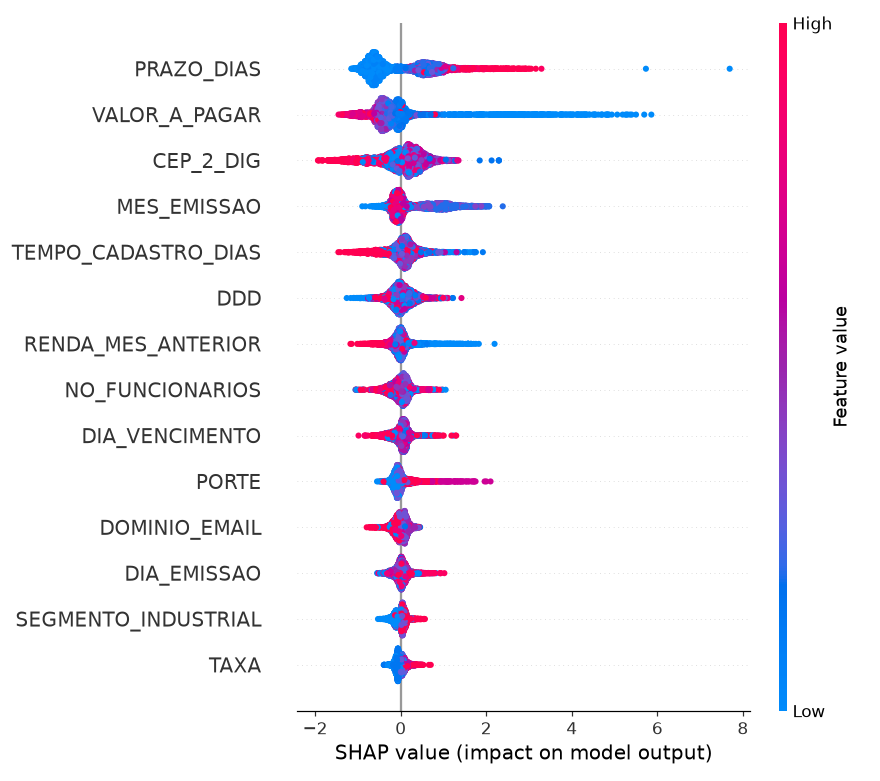
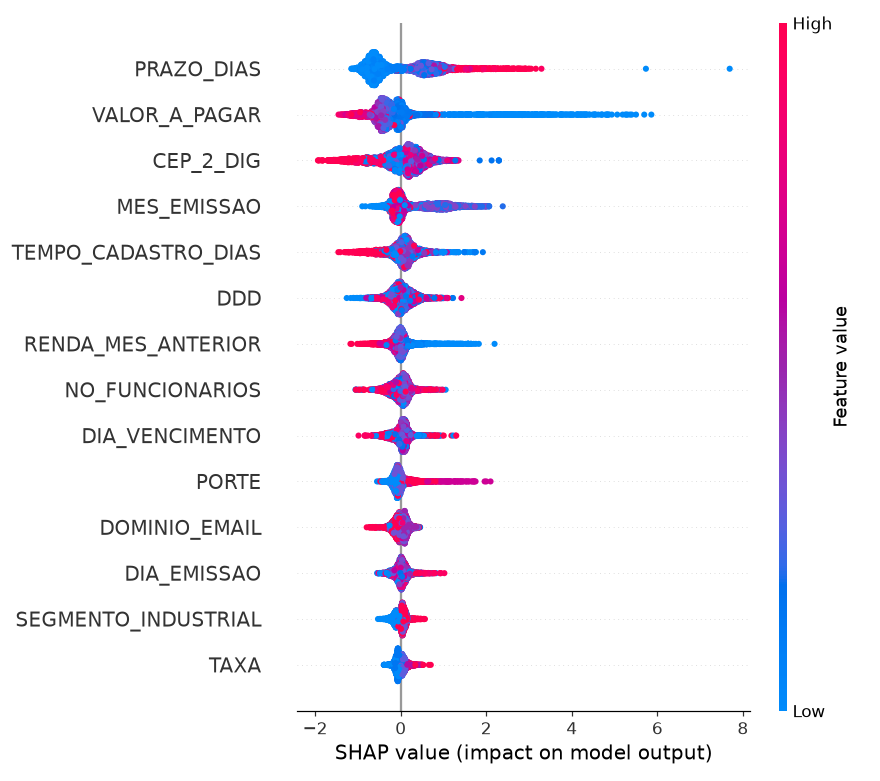
Empacotar Pipeline com joblib, API /score e testes

Changed region(s): [[0.3989, 0.0615, 0.5523, 0.8297], [0.4602, 0.8297, 0.4909, 0.8604]]

diff --git a/src/treino.py b/src/treino.py
@@ -1,0 +1,76 @@
+"""Treino do modelo final e serializacao com joblib.
+
+Uso:
+    python -m src.treino                      # grava models/pipeline_modelo.joblib
+    python -m src.treino --submissao saida.csv # tambem gera previsoes da base de teste
+"""
+import argparse
+import json
+import platform
+from pathlib import Path
+
+import joblib
+import lightgbm
+import pandas as pd
+import sklearn
+
+from src.config import COL_ALVO, COL_ID, COL_SAFRA, FEATURES, MODELS_DIR
+from src.data import carregar_bases, montar_desenvolvimento, montar_teste
+from src.features import construir_pipeline, preparar_entrada
+
+NOME_MODELO = "pipeline_modelo.joblib"
+NOME_METADADOS = "pipeline_modelo.json"
+
+
+def treinar(df):
+    """Ajusta o Pipeline completo (imputacao, codificacao, LightGBM) em todo o desenvolvimento."""
+    X = preparar_entrada(df, FEATURES)
+    return construir_pipeline(FEATURES).fit(X, df[COL_ALVO])
+
+
+def salvar(pipeline, pasta=None, n_linhas=None):
+    pasta = Path(pasta) if pasta else MODELS_DIR
+    pasta.mkdir(parents=True, exist_ok=True)
+    caminho = pasta / NOME_MODELO
+    joblib.dump(pipeline, caminho)
+    metadados = {
+        "features": FEATURES,
+        "n_linhas_treino": n_linhas,
+        "versoes": {
+            "python": platform.python_version(),
+            "scikit_learn": sklearn.__version__,
+            "lightgbm": lightgbm.__version__,
+            "pandas": pd.__version__,
+            "joblib": joblib.__version__,
+        },
+    }
+    (pasta / NOME_METADADOS).write_text(json.dumps(metadados, indent=2), encoding="utf-8")
+    return caminho
+
+
+def carregar(caminho=None):
+    return joblib.load(Path(caminho) if caminho else MODELS_DIR / NOME_MODELO)
+
+
+def prever(pipeline, df):
+    return pipeline.predict_proba(preparar_entrada(df, FEATURES))[:, 1]
+
+
+def main():
+    ap = argparse.ArgumentParser()
+    ap.add_argument("--submissao", help="caminho do CSV de previsoes da base de teste")
+    args = ap.parse_args()
+    bases = carregar_bases()
+    dev = montar_desenvolvimento(bases)
+    pipeline = treinar(dev)
+    print("Modelo salvo em", salvar(pipeline, n_linhas=len(dev)))
+    if args.submissao:
+        teste = montar_teste(bases)
+        saida = teste[[COL_ID, COL_SAFRA]].copy()
+        saida["PROBABILIDADE_INADIMPLENCIA"] = prever(pipeline, teste)
+        saida.to_csv(args.submissao, index=False)
+        print("Previsoes gravadas em", args.submissao, f"({len(saida)} linhas)")
+
+
+if __name__ == "__main__":
+    main()

diff --git a/tests/test_treino_e_api.py b/tests/test_treino_e_api.py
@@ -1,0 +1,60 @@
+import numpy as np
+import pytest
+from fastapi.testclient import TestClient
+
+from src.api import criar_app
+from src.config import FEATURES
+from src.treino import NOME_MODELO, carregar, prever, salvar, treinar
+
+
+@pytest.fixture(scope="module")
+def pipeline(desenvolvimento):
+    return treinar(desenvolvimento)
+
+
+@pytest.fixture(scope="module")
+def caminho_modelo(pipeline, tmp_path_factory):
+    return salvar(pipeline, tmp_path_factory.mktemp("modelo"), n_linhas=1)
+
+
+def test_serializacao_joblib_preserva_previsoes(pipeline, caminho_modelo, desenvolvimento):
+    recarregado = carregar(caminho_modelo)
+    amostra = desenvolvimento.head(50)
+    assert caminho_modelo.name == NOME_MODELO
+    np.testing.assert_allclose(prever(pipeline, amostra), prever(recarregado, amostra))
+
+
+def test_pipeline_expoe_a_lista_unica_de_features(pipeline):
+    assert sorted(pipeline.named_steps["prep"].get_feature_names_out()) == sorted(FEATURES)
+
+
+def test_api_saude(caminho_modelo):
+    cliente = TestClient(criar_app(caminho_modelo))
+    r = cliente.get("/saude")
+    assert r.status_code == 200
+    assert r.json()["features"] == FEATURES
+
+
+def test_api_score_retorna_probabilidades_validas(caminho_modelo):
+    cliente = TestClient(criar_app(caminho_modelo))
+    corpo = {"registros": [
+        {"DATA_EMISSAO_DOCUMENTO": "2019-05-10", "DATA_VENCIMENTO": "2019-06-10",
+         "VALOR_A_PAGAR": 12000.0, "TAXA": 6.99, "PORTE": "MEDIO", "DDD": 31},
+        {"DATA_EMISSAO_DOCUMENTO": "2019-05-12", "DATA_VENCIMENTO": "2019-06-20"},
+    ]}
+    r = cliente.post("/score", json=corpo)
+    assert r.status_code == 200
+    prob = r.json()["probabilidades"]
+    assert len(prob) == 2 and all(0.0 <= p <= 1.0 for p in prob)
+
+
+def test_api_rejeita_corpo_invalido(caminho_modelo):
+    cliente = TestClient(criar_app(caminho_modelo))
+    assert cliente.post("/score", json={"registros": []}).status_code == 422
+    assert cliente.post("/score", json={"registros": [{"TAXA": 1}]}).status_code == 422
+
+
+def test_api_sem_modelo_retorna_503(tmp_path):
+    cliente = TestClient(criar_app(tmp_path / "inexistente.joblib"))
+    corpo = {"registros": [{"DATA_EMISSAO_DOCUMENTO": "2019-05-10", "DATA_VENCIMENTO": "2019-06-10"}]}
+    assert cliente.post("/score", json=corpo).status_code == 503

diff --git a/src/api.py b/src/api.py
@@ -1,0 +1,69 @@
+"""API de escore. Uso: MODELO_PATH=models/pipeline_modelo.joblib uvicorn src.api:app"""
+import os
+from typing import List, Optional
+
+import pandas as pd
+from fastapi import FastAPI, HTTPException
+from pydantic import BaseModel, Field
+
+from src.config import FEATURES, MODELS_DIR
+from src.data import derivar_variaveis
+from src.treino import NOME_MODELO, carregar, prever
+
+
+class Registro(BaseModel):
+    """Um documento a ser pontuado. Campos cadastrais ausentes sao tratados como nulos."""
+
+    DATA_EMISSAO_DOCUMENTO: str = Field(..., examples=["2021-07-14"])
+    DATA_VENCIMENTO: str = Field(..., examples=["2021-08-04"])
+    VALOR_A_PAGAR: Optional[float] = None
+    TAXA: Optional[float] = None
+    DATA_CADASTRO: Optional[str] = None
+    RENDA_MES_ANTERIOR: Optional[float] = None
+    NO_FUNCIONARIOS: Optional[float] = None
+    DDD: Optional[float] = None
+    SEGMENTO_INDUSTRIAL: Optional[str] = None
+    DOMINIO_EMAIL: Optional[str] = None
+    PORTE: Optional[str] = None
+    CEP_2_DIG: Optional[float] = None
+
+
+class Requisicao(BaseModel):
+    registros: List[Registro] = Field(..., min_length=1, max_length=10000)
+
+
+class Resposta(BaseModel):
+    probabilidades: List[float]
+    n_registros: int
+
+
+def criar_app(caminho_modelo=None):
+    app = FastAPI(title="Escore de inadimplencia", version="1.0.0")
+    app.state.caminho_modelo = caminho_modelo or os.environ.get(
+        "MODELO_PATH", str(MODELS_DIR / NOME_MODELO)
+    )
+    app.state.modelo = None
+
+    def modelo():
+        if app.state.modelo is None:
+            try:
+                app.state.modelo = carregar(app.state.caminho_modelo)
+            except FileNotFoundError as erro:
+                raise HTTPException(status_code=503, detail="Modelo nao encontrado") from erro
+        return app.state.modelo
+
+    @app.get("/saude")
+    def saude():
+        return {"status": "ok", "features": FEATURES}
+
+    @app.post("/score", response_model=Resposta)
+    def score(req: Requisicao):
+        df = pd.DataFrame([r.model_dump() for r in req.registros])
+        df = derivar_variaveis(df)
+        prob = prever(modelo(), df)
+        return Resposta(probabilidades=[float(p) for p in prob], n_registros=len(prob))
+
+    return app
+
+
+app = criar_app()
